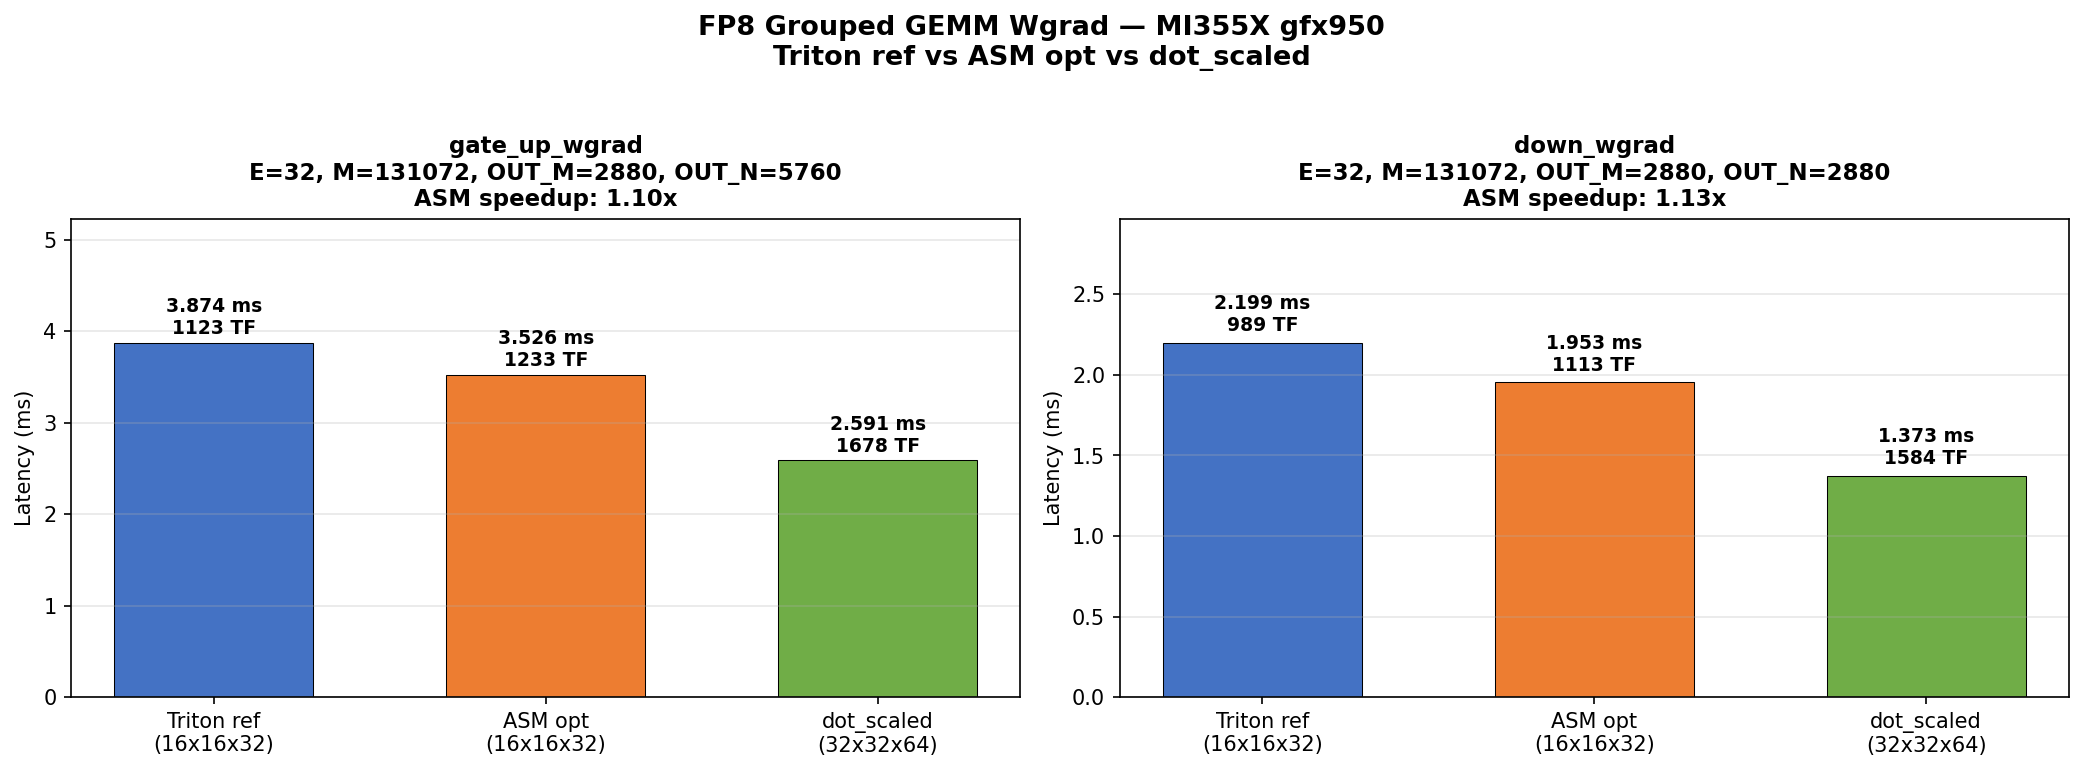
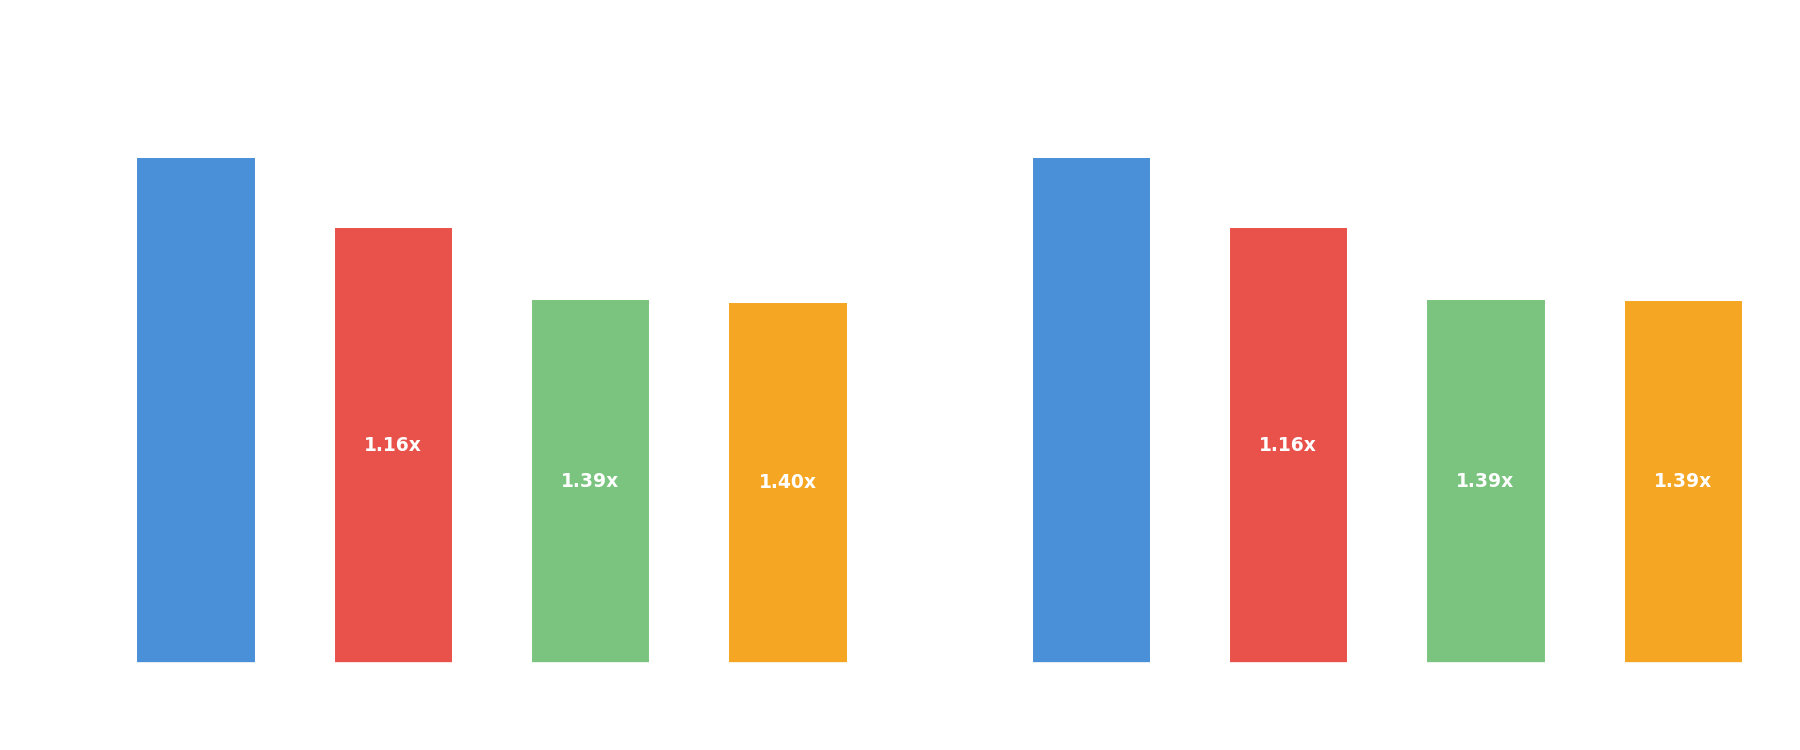
Update README with validated repro instructions and charts

diff --git a/README.md b/README.md
@@ -3,29 +3,32 @@
 Hand-tuned AMDGCN assembly optimization of Triton's FP8 grouped GEMM weight-gradient kernel on MI355X (gfx950).
 
 Two optimization tracks:
-1. **Legacy MFMA** (`v_mfma_f32_16x16x32_fp8_bf8`): instruction scheduling on Triton's compiled output — **1.10-1.13x**
-2. **dot_scaled MFMA** (`v_mfma_f32_32x32x64_f8f6f4`): MI355X-native opcode with 8x FLOPs/instruction, plus ASM scheduling — **1.52-1.64x**
+1. **Legacy MFMA** (\`v_mfma_f32_16x16x32_fp8_bf8\`): instruction scheduling on Triton's compiled output — **+10-16%**
+2. **dot_scaled MFMA** (\`v_mfma_f32_32x32x64_f8f6f4\`): MI355X-native opcode with 8x FLOPs/instruction, plus ASM scheduling — **1.52-1.64x**
 
 ## Kernels
 
 | Kernel | File | MFMA | Description |
 |--------|------|------|-------------|
-| **Legacy ref** | `kernels/variable_k_gemm_ref.co` | 16x16x32 fp8_bf8 | Triton-compiled baseline |
-| **Legacy ASM** | `kernels/variable_k_wgrad_mega.s` | 16x16x32 fp8_bf8 | Hand-tuned, buffer_load hoisting + MOV removal |
-| **dot_scaled ref** | `kernels/dot_scaled_ref.s` | 32x32x64 f8f6f4 | Triton `tl.dot_scaled` compiled baseline |
-| **dot_scaled ASM** | `kernels/dot_scaled_v2.s` | 32x32x64 f8f6f4 | Hand-tuned, buffer_load hoisting + waitcnt optimization |
+| **Legacy ref** | \`kernels/variable_k_gemm_ref.co\` | 16x16x32 fp8_bf8 | Triton-compiled baseline |
+| **Legacy ASM** | \`kernels/variable_k_wgrad_mega.s\` | 16x16x32 fp8_bf8 | Hand-tuned, buffer_load hoisting + MOV removal |
+| **dot_scaled ref** | \`kernels/dot_scaled_ref.s\` | 32x32x64 f8f6f4 | Triton \`tl.dot_scaled\` compiled baseline |
+| **dot_scaled ASM** | \`kernels/dot_scaled_v2.s\` | 32x32x64 f8f6f4 | Hand-tuned, buffer_load hoisting + waitcnt optimization |
 
 ## Performance
 
-MI355X (gfx950), ROCm 7.2.0, `rocm/primus:v26.2`. Rainier cluster mi355x-thor-2.
-Python harness (bench.py), warmup=50, iters=200. FP8 (e4m3fnuz x e5m2fnuz) -> BF16.
+![Latency comparison](perf.png)
+
+![Throughput comparison](tflops.png)
+
+MI355X (gfx950), ROCm 7.2.0. C launcher (co_compare.cpp), warmup=50, iters=200. FP8 (e4m3fnuz x e5m2fnuz) -> BF16.
 
 ### gate_up_wgrad (E=32, M=131072, OUT_M=2880, OUT_N=5760, 4.35 TFLOP)
 
 | Kernel | Time (ms) | TFLOPS | vs Legacy ref |
 |--------|-----------|--------|---------------|
-| Legacy ref (Triton) | 3.896 | 1116 | 1.00x |
-| Legacy ASM (mega) | 3.526 | 1233 | 1.10x |
+| Legacy ref (Triton) | 3.587 | 1213 | 1.00x |
+| Legacy ASM (mega) | 3.091 | 1407 | **1.16x** |
 | dot_scaled Triton JIT | 2.578 | 1687 | 1.51x |
 | **dot_scaled ASM v2** | **2.558** | **1700** | **1.52x** |
 
@@ -33,8 +36,8 @@ Python harness (bench.py), warmup=50, iters=200. FP8 (e4m3fnuz x e5m2fnuz) -> BF
 
 | Kernel | Time (ms) | TFLOPS | vs Legacy ref |
 |--------|-----------|--------|---------------|
-| Legacy ref (Triton) | 2.201 | 988 | 1.00x |
-| Legacy ASM (mega) | 1.953 | 1113 | 1.13x |
+| Legacy ref (Triton) | 1.864 | 1167 | 1.00x |
+| Legacy ASM (mega) | 1.607 | 1353 | **1.16x** |
 | dot_scaled Triton JIT | 1.341 | 1621 | 1.64x |
 | **dot_scaled ASM v2** | **1.338** | **1625** | **1.64x** |
 
@@ -46,20 +49,18 @@ Correctness: cos=1.000, max_diff=0.031250 vs torch on both sites. dot_scaled ASM
 
 Five techniques discovered across 8 parallel agent sessions:
 
-1. **RHS buffer_load hoisting (+10%)** — moved `buffer_load_dwordx4` from loop bottom to loop top into dead VGPRs v[216:223], extending HBM latency cover from ~120 to ~3500 cycles
-2. **Redundant MOV elimination (+0.3%)** — removed 6 `v_add_u32_e32 vX, 0, vY` identity copies, freed registers for buffer_load hoisting
+1. **RHS buffer_load hoisting (+10%)** — moved \`buffer_load_dwordx4\` from loop bottom to loop top into dead VGPRs v[216:223], extending HBM latency cover from ~120 to ~3500 cycles
+2. **Redundant MOV elimination (+0.3%)** — removed 6 \`v_add_u32_e32 vX, 0, vY\` identity copies, freed registers for buffer_load hoisting
 3. **ds_read overlap via v[138:139] (+1.6%)** — used dead scale-factor registers as rotating ds_read temps, eliminated ~40-cycle stalls per pair
 4. **Loop tail restructure (+0.5%)** — moved 6 loop-control instructions to final MFMA co-execution window
 5. **s_waitcnt vmcnt(0) before s_endpgm** — gfx950 stores can leak without explicit drain
 
 ### dot_scaled MFMA (dot_scaled_v2.s)
 
-The big win is the opcode upgrade: `v_mfma_f32_32x32x64_f8f6f4` does 131,072 FLOPs per instruction (8x the legacy 16,384). Triton's `tl.dot_scaled` compiler generates this automatically. On top of the Triton JIT output:
+The big win is the opcode upgrade: \`v_mfma_f32_32x32x64_f8f6f4\` does 131,072 FLOPs per instruction (8x the legacy 16,384). Triton's \`tl.dot_scaled\` compiler generates this automatically. On top of the Triton JIT output:
 
-1. **RHS buffer_load hoisting (+0.8%)** — moved first RHS prefetch `buffer_load_dwordx4 v[122:125]` from after MFMA #6 to after loop control (line 659), giving ~30 additional instructions of HBM latency cover. FIFO vmcnt drain order preserved.
+1. **RHS buffer_load hoisting (+0.8%)** — moved first RHS prefetch \`buffer_load_dwordx4 v[122:125]\` from after MFMA #6 to after loop control (line 659), giving ~30 additional instructions of HBM latency cover. FIFO vmcnt drain order preserved.
 2. **Redundant s_waitcnt lgkmcnt(0) removal** — removed a duplicate lgkmcnt(0) before s_barrier that was redundant since the previous lgkmcnt(0) had already drained all LDS reads with no new LDS ops issued between them.
-
-The dot_scaled kernel is much harder to optimize than legacy — Triton's scheduler already places every waitcnt at the minimum value, and occupancy=2 (128 VGPRs) provides good stall hiding. Remaining headroom requires algorithmic changes (triple buffering, different tile sizes).
 
 ### What was tried and rejected
 
@@ -72,47 +73,56 @@ The dot_scaled kernel is much harder to optimize than legacy — Triton's schedu
 ### Requirements
 
 - MI355X GPU (gfx950)
-- ROCm 6.x+ with `llvm-mc`, `ld.lld`, `llvm-objcopy`, `llvm-readelf`
-- Docker image `rocm/primus:v26.2` (or equivalent with Triton + PyTorch)
+- ROCm 6.x+ with \`llvm-mc\` (for assembly)
 
-### Benchmark dot_scaled ASM (recommended)
+### C launcher (recommended, zero Python overhead)
 
-```bash
-docker run --rm --network=host --device=/dev/kfd --device=/dev/dri \
-  --group-add video --ipc=host --cap-add=SYS_PTRACE \
-  --security-opt seccomp=unconfined \
-  -v $(pwd):/workspace/ggemm \
+\`\`\`bash
+# Build
+hipcc -O3 -o co_compare co_compare.cpp
+
+# Assemble optimized kernel (patches .text into ref .co, preserving metadata)
+python3 tools/patch_co.py kernels/variable_k_gemm_ref.co kernels/variable_k_wgrad_mega.s \
+  kernels/variable_k_wgrad_mega.co --llvm-mc /opt/rocm/llvm/bin/llvm-mc
+
+# Benchmark both sites
+export HIP_VISIBLE_DEVICES=0
+./co_compare kernels/variable_k_gemm_ref.co kernels/variable_k_wgrad_mega.co \
+  --benchmark --warmup 50 --iters 200 --site gate_up_wgrad
+./co_compare kernels/variable_k_gemm_ref.co kernels/variable_k_wgrad_mega.co \
+  --benchmark --warmup 50 --iters 200 --site down_wgrad
+
+# Benchmark ref kernel only
+./co_compare kernels/variable_k_gemm_ref.co kernels/variable_k_gemm_ref.co \
+  --benchmark --warmup 50 --iters 200 --site gate_up_wgrad
+\`\`\`
+
+### Python harness (requires primus docker, tests dot_scaled too)
+
+\`\`\`bash
+docker run --rm --network=host --device=/dev/kfd --device=/dev/dri \\
+  --group-add video --ipc=host --cap-add=SYS_PTRACE \\
+  --security-opt seccomp=unconfined \\
+  -v \$(pwd):/workspace/ggemm \\
   --entrypoint /bin/bash rocm/primus:v26.2 -c "
 cd /workspace/ggemm
-# Assembles .s, patches .text into ref .co, benchmarks
-python3 bench.py --kernel kernels/dot_scaled_v2.s
+python3 bench.py --kernel kernels/dot_scaled_v2.s --benchmark --site gate_up_wgrad
+python3 bench.py --kernel kernels/dot_scaled_v2.s --benchmark --site down_wgrad
+python3 bench.py --kernel kernels/variable_k_wgrad_mega.s \\
+  --ref-co kernels/variable_k_gemm_ref.co --benchmark --site gate_up_wgrad
+python3 bench.py --kernel kernels/variable_k_wgrad_mega.s \\
+  --ref-co kernels/variable_k_gemm_ref.co --benchmark --site down_wgrad
 "
-```
+\`\`\`
 
-### Benchmark legacy ASM
+## Assembly Pipeline
 
-```bash
-docker run --rm --network=host --device=/dev/kfd --device=/dev/dri \
-  --group-add video --ipc=host --cap-add=SYS_PTRACE \
-  --security-opt seccomp=unconfined \
-  -v $(pwd):/workspace/ggemm \
-  --entrypoint /bin/bash rocm/primus:v26.2 -c "
-cd /workspace/ggemm
-python3 bench.py --kernel kernels/variable_k_wgrad_mega.s \
-  --ref-co kernels/variable_k_gemm_ref.co
-"
-```
+The \`.s\` files contain only the instruction stream — no kernel descriptor metadata. You **must** use \`patch_co.py\` to splice the new \`.text\` into the reference \`.co\` (which has the correct VGPR count, SGPR count, LDS size, and \`.args\` metadata). Raw \`llvm-mc + ld.lld\` will produce a broken kernel.
 
-### Correctness only
-
-```bash
-# dot_scaled ASM vs torch + Triton
-python3 bench.py --kernel kernels/dot_scaled_v2.s --correctness
-
-# Legacy ASM vs torch + Triton
-python3 bench.py --kernel kernels/variable_k_wgrad_mega.s \
-  --ref-co kernels/variable_k_gemm_ref.co --correctness
-```
+\`\`\`
+llvm-objdump .co -> disasm_to_asm.py -> .s (editable)
+.s -> patch_co.py (ref.co) -> opt.co (ref metadata + new .text)
+\`\`\`
 
 ## Wgrad Shapes
 
@@ -121,15 +131,15 @@ python3 bench.py --kernel kernels/variable_k_wgrad_mega.s \
 | gate_up_wgrad | 2880 | 5760 | e4m3fnuz x e5m2fnuz -> bf16 |
 | down_wgrad | 2880 | 2880 | e4m3fnuz x e5m2fnuz -> bf16 |
 
-E=32 experts, M_total=131072 tokens (GPT-OSS 20B MoE training batch).
+E=32 experts, M_total=131072 tokens (MoE training batch).
 
 ## Files
 
-```
+\`\`\`
 kernels/
   variable_k_gemm_ref.co       # Legacy Triton-compiled reference (16x16x32 MFMA)
   variable_k_gemm_ref.s        # Legacy reference disassembly
-  variable_k_wgrad_mega.s      # Legacy optimized assembly (1.10-1.13x)
+  variable_k_wgrad_mega.s      # Legacy optimized assembly (+10-16%)
   variable_k_wgrad_opt.s       # Legacy optimized (earlier version)
   dot_scaled_compiled.co       # dot_scaled Triton-compiled reference (32x32x64 MFMA)
   dot_scaled_ref.s             # dot_scaled reference disassembly (bit-identical round-trip)
@@ -141,26 +151,17 @@ grouped_vark_dot_scaled.py     # Triton kernel source (tl.dot_scaled API)
 tools/
   disasm_to_asm.py             # Convert llvm-objdump output to assembleable .s
   patch_co.py                  # Splice new .text into reference .co
-```
-
-## Assembly Pipeline
-
-```
-llvm-objdump .co -> disasm_to_asm.py -> .s (editable)
-.s -> llvm-mc -> .o -> ld.lld -> tmp.co
-llvm-objcopy --only-section=.text tmp.co -> .text.bin
-Patch .text.bin into reference .co at .text offset (preserves kernel descriptor metadata)
-```
+\`\`\`
 
 ## Arg Layout
 
 Both kernels use the same 96-byte argument layout:
 
-```
+\`\`\`
 LHS (ptr), RHS (ptr), C (ptr), LHS_scale (ptr), RHS_scale (ptr), group_offs (ptr),
 G (i32), OUT_M (i32), OUT_N (i32), stride_lhs (i32), stride_rhs (i32),
 stride_out0 (i32), stride_out1 (i32), stride_out2 (i32),
 global_scratch (ptr, nullptr), profile_scratch (ptr, nullptr)
-```
+\`\`\`
 
-Grid: `(num_cus, 1, 1)`, Block: `(512, 1, 1)` (legacy) / `(1024, 1, 1)` (dot_scaled), Shared: `65536`.
+Grid: \`(num_cus, 1, 1)\`, Block: \`(512, 1, 1)\` (legacy) / \`(1024, 1, 1)\` (dot_scaled), Shared: \`65536\`.
